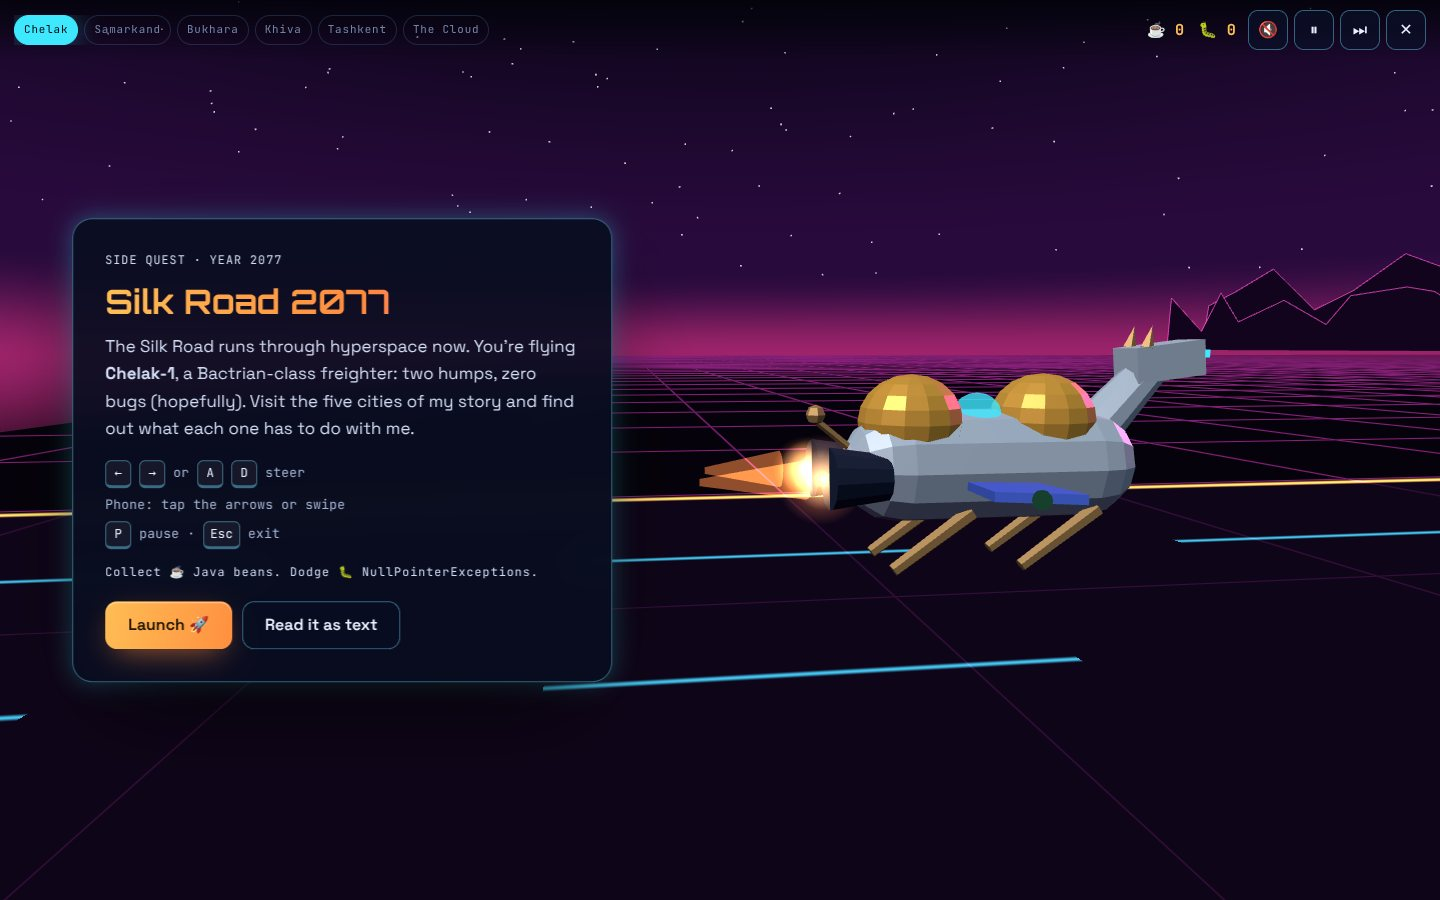
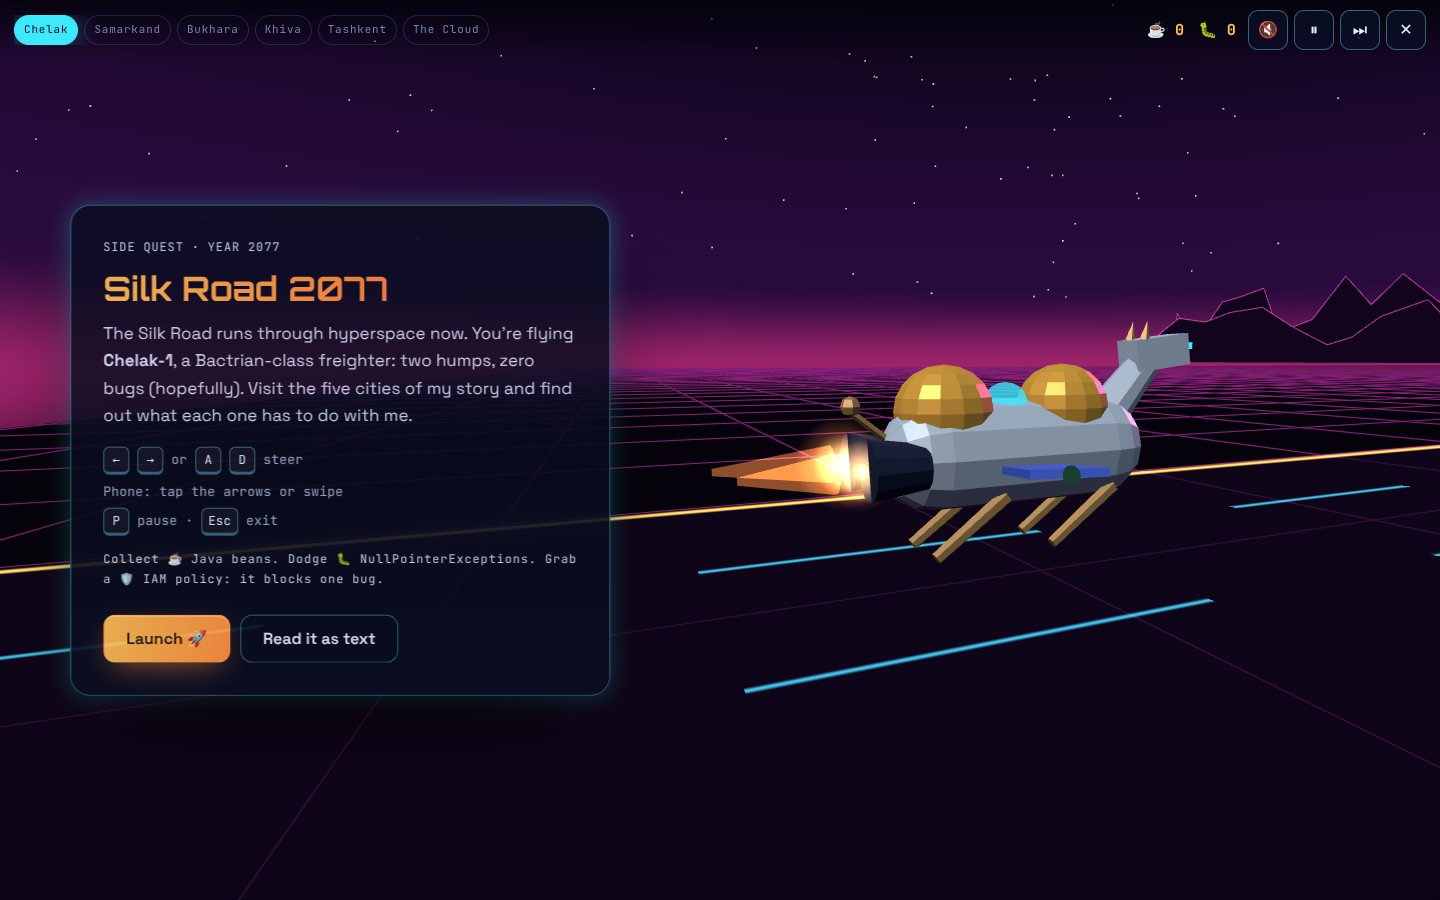
Update the README and screenshots for the new game features
The README now covers the IAM policy power-up, the city skies, the progress
line, rank sharing, the 14 achievements, the home-screen icon, the sideways
phone layout, the trimmed three.js build (with rebuild steps), the faster
start and the adaptive quality. Two new screenshots show the shield and the
five skies, and the rest are retaken from the current build.

Claude-Session: https://claude.ai/code/session_01StPHSgkzNaFnDzXNA6GNi1

diff --git a/README.md b/README.md
@@ -26,6 +26,15 @@ You pilot **Chelak-1**, a Bactrian-class freighter (two humps, zero bugs, hopefu
 | **Tashkent** | Capital of Uzbekistan, where I live now | CS at Central Asian University and the campus AWS Student Builder Group |
 | **The Cloud** | Final destination | This site on AWS, and an invitation to get in touch |
 
+On the way:
+
+- **An IAM policy power-up.** After the first city, an orange shield sometimes appears on the road. Fly into it and an AccessDenied bubble wraps the camel, and the next bug that hits you is blocked. Least privilege, finally useful.
+- **Every city has its own sky.** As you get close to a city, the horizon, fog, grid and mountains fade into its colors: sunset orange for Chelak, turquoise tiles for Samarkand, lapis for Bukhara, desert neon for Khiva, a blue city night for Tashkent, and a pale sky above the clouds.
+- **A progress line** under the top bar, with a dot for each city and a tiny camel moving along it.
+- **A rank at the end.** The Cloud shows your beans, bugs and flight time, and gives you a rank, from "Intern (unpaid, but happy)" to "Senior Bean Engineer". **Share my rank** opens your device's share sheet, or copies a brag to the clipboard where sharing isn't available.
+
+![Five cities, five skies: Chelak, Samarkand, Bukhara, Khiva and Tashkent](docs/screenshots/game-skies.jpg)
+
 The game never gets in the way of the portfolio:
 
 - It's optional. Every fact in the game is also in the normal page, in plain HTML.
@@ -34,22 +43,25 @@ The game never gets in the way of the portfolio:
 - It works with a keyboard (← → or A D, P to pause), touch buttons, or swipes on a phone.
 - Every station card links to the matching section of the portfolio.
 
-| Flying | A station | The finish |
-| --- | --- | --- |
-| ![Flying the camel spaceship down the neon road](docs/screenshots/game-play.jpg) | ![The Samarkand station card next to a hologram Registan](docs/screenshots/game-station-samarkand.jpg) | ![The Cloud: score, rank and contact buttons](docs/screenshots/game-end.jpg) |
+| Flying | The IAM policy shield |
+| --- | --- |
+| ![Flying the camel spaceship down the neon road](docs/screenshots/game-play.jpg) | ![The camel inside an orange AccessDenied bubble, with the journey progress line at the top](docs/screenshots/game-shield.jpg) |
+| **A station** | **The finish** |
+| ![The Samarkand station card next to a hologram Registan](docs/screenshots/game-station-samarkand.jpg) | ![The Cloud: score, rank, share button and contact buttons](docs/screenshots/game-end.jpg) |
 
 ### Small things to find
 
-- 12 achievements, saved in your browser (the 🏆 counter in the top bar).
-- A HUD with the current time in Tashkent, a rotating developer status ("it works on my machine ✓"), and an altimeter that climbs from 0 to the ISS (400 km) as you scroll.
+- 14 achievements, saved in your browser (the 🏆 counter in the top bar). One of them is for 15 Java beans in a row without a single bug.
+- A status bar with the current time in Tashkent and a rotating developer status ("it works on my machine ✓"), and an altimeter that climbs from 0 to the ISS (400 km) as you scroll.
 - A satellite circling the globe on a 51.6° orbit, the same target orbit SimulateUz flies to.
 - A camel spaceship that flies past every now and then.
 - The Konami code (↑ ↑ ↓ ↓ ← → ← → B A) turns on meme mode.
 - A custom 404 page for caravans that get lost.
+- Add the site to your phone's home screen and it gets its own app icon, named SAIDXON.OS.
 
 ## On phones
 
-The whole site and the game are built for touch screens: the layout is single-column, the 3D scene renders fewer stars, the game shows big arrow buttons, and the city cards slide up from the bottom so the 3D scene stays visible.
+The whole site and the game are built for touch screens: the layout is single-column, the 3D scene renders fewer stars, the game shows big arrow buttons, and the city cards slide up from the bottom so the 3D scene stays visible. Held sideways, the cards move to the left and the scene shifts right, so the camel stays in view. The buttons on every card stay pinned to its bottom edge, so they're always within reach, even on a 320 px wide screen.
 
 ![The site and the game on a phone](docs/screenshots/phone-strip.jpg)
 
@@ -80,24 +92,31 @@ The repo carries its own hosting configuration:
 
 ## How it's built
 
-- **No framework, no build step.** Plain HTML, CSS and JavaScript modules. [three.js](https://threejs.org) r186 is vendored locally as a single minified file, and the three fonts are self-hosted, so the site needs nothing from other servers.
+- **No framework, no build step.** Plain HTML, CSS and JavaScript modules. [three.js](https://threejs.org) r186 is vendored locally, and the three fonts are self-hosted, so the site needs nothing from other servers.
+- **Only the three.js it needs.** [`tools/three`](tools/three) uses esbuild to bundle only the 54 parts of three.js the site uses, which makes the file about 20% smaller than the full build (151 KB gzipped). To rebuild it: `cd tools/three && npm ci && npm run build`. The site itself still has no build step.
 - **Content first.** All About, Skills, Projects, Experience and Contact content is static HTML, so it works without JavaScript, for screen readers, and for search engines. JavaScript only adds the 3D layer and the game on top.
-- **The game loads on demand.** Its code is a separate module that's only downloaded when you press the camel.
+- **Text before 3D.** The 3D globe starts only after the page has painted, so the text shows up first. The game is a separate module that's only downloaded when you press the camel.
+- **Adapts to slow devices.** If the 3D globe can't hold about 40 frames per second, it drops to a lower resolution, and then to 30 frames per second. Add `?hq` to the address to turn this off.
 - **3D on a budget.** The globe is one sphere with a custom shader that draws the continents as dots from an 8 KB land mask. Coffee cups, bugs and road lights are instanced meshes, the cities are merged geometries, and rendering pauses while the tab is hidden or the game is open.
-- **Accessible by default.** Skip link, semantic landmarks, visible focus styles, a focus trap and Esc to close in the game, a full text mode, and support for `prefers-reduced-motion` (the 3D background holds still, and the game drops camera shake and the intro camera swing).
+- **Accessible by default.** Skip link, semantic landmarks, visible focus styles, a focus trap and Esc to close in the game, a full text mode, and support for `prefers-reduced-motion` (the 3D background holds still, and the game drops camera shake and the intro camera swing). An axe-core scan finds no violations on the page, the game cards or the text mode, and Lighthouse scores 100 for accessibility, best practices and SEO.
 
 ```
-public/                     the deployed site
-├── index.html              all portfolio content
-├── 404.html                lost-caravan page
-├── assets/css/main.css     design system, layout, game UI
-├── assets/js/main.js       navigation, HUD, achievements, easter eggs
-├── assets/js/hero-scene.js the 3D globe, satellite, stars and flyby
-├── assets/js/silk-road/    the game: flow, 3D models, station content
-├── assets/vendor/          three.js (MIT)
-└── assets/fonts/           Orbitron, Space Grotesk, JetBrains Mono (OFL)
-amplify.yml                 Amplify build settings
-customHttp.yml              security and cache headers
+public/                        the deployed site
+├── index.html                 all portfolio content
+├── 404.html                   lost-caravan page
+├── manifest.json              home-screen name and icons
+├── assets/css/main.css        design system, layout, game UI
+├── assets/js/main.js          navigation, status bar, easter eggs
+├── assets/js/hero-scene.js    the 3D globe, satellite, stars and flyby
+├── assets/js/achievements.js  the 14 achievements
+├── assets/js/sfx.js           sound effects (off until you turn them on)
+├── assets/js/silk-road/       the game: flow, 3D models, station content
+├── assets/img/                project images, the globe's land mask, app icons
+├── assets/vendor/             trimmed three.js (MIT)
+└── assets/fonts/              Orbitron, Space Grotesk, JetBrains Mono (OFL)
+tools/three/                   rebuilds the trimmed three.js (not deployed)
+amplify.yml                    Amplify build settings
+customHttp.yml                 security and cache headers
 ```
 
 ### Run it locally
